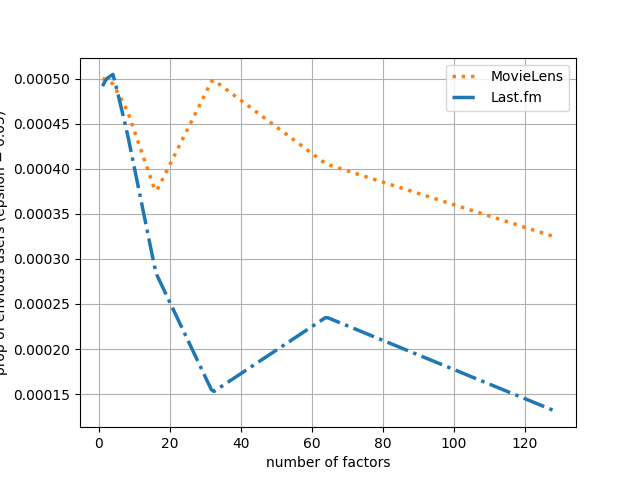
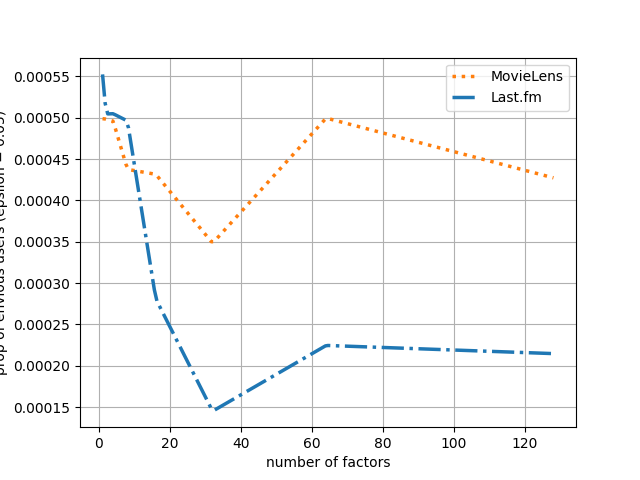
testen MovieLens 25M

diff --git a/src/constant.py b/src/constant.py
@@ -22,10 +22,10 @@ MODELS_CHOSEN = None
 # Data sets on which the experiments can be performed
 DATA_SETS = {"movie": {"label": "mv",
                 "filename": "user_movie.py",
-                "data": {"user_movies": "ratings.csv"},
-                "data_src": "../data/ml-1m",
-                # "data": {"user_movies": "ratings.dat"},
-                # "data_src": "../data/ml-1m/",
+                # "data": {"user_movies": "ratings.csv"},
+                # "data_src": "../data/ml-25m/",
+                "data": {"user_movies": "ratings.dat"},
+                "data_src": "../data/ml-1m/",
                 # Extension of variable name
                 "var_ext": "_mv",
                 "var_folder": "mv/",

diff --git a/src/classes/recommender.py b/src/classes/recommender.py
@@ -87,6 +87,13 @@ class Recommender(object):
         self.u_m = np.zeros(self.u.shape)
         np.fill_diagonal(self.u_m, self.u.diagonal())
 
+    def set_u_EUU(self):
+        """
+            Find the Equal User Utility using the Frank-Wolfe algorithm
+        """
+        # Use the policies as the initial guess of the Frank-Wolfe algorithm
+        p_init = self.policies
+
     def set_recommendations(self):
         print("Generating recommendations...")
 

diff --git a/src/classes/audit.py b/src/classes/audit.py
@@ -35,8 +35,9 @@ class Audit(object):
         mask = np.full(u_OPT.shape, 1)
         np.fill_diagonal(mask, 0)
         u_n = mask * u_OPT
-        envy = (np.flatten(u_n) - np.flatten(u_m)).clip(min=0)
-
+        delta_u = (u_n.flatten() - u_m.flatten())
+        envy = delta_u.clip(min=0)
+        
         # Envy for each user
         return envy
 
